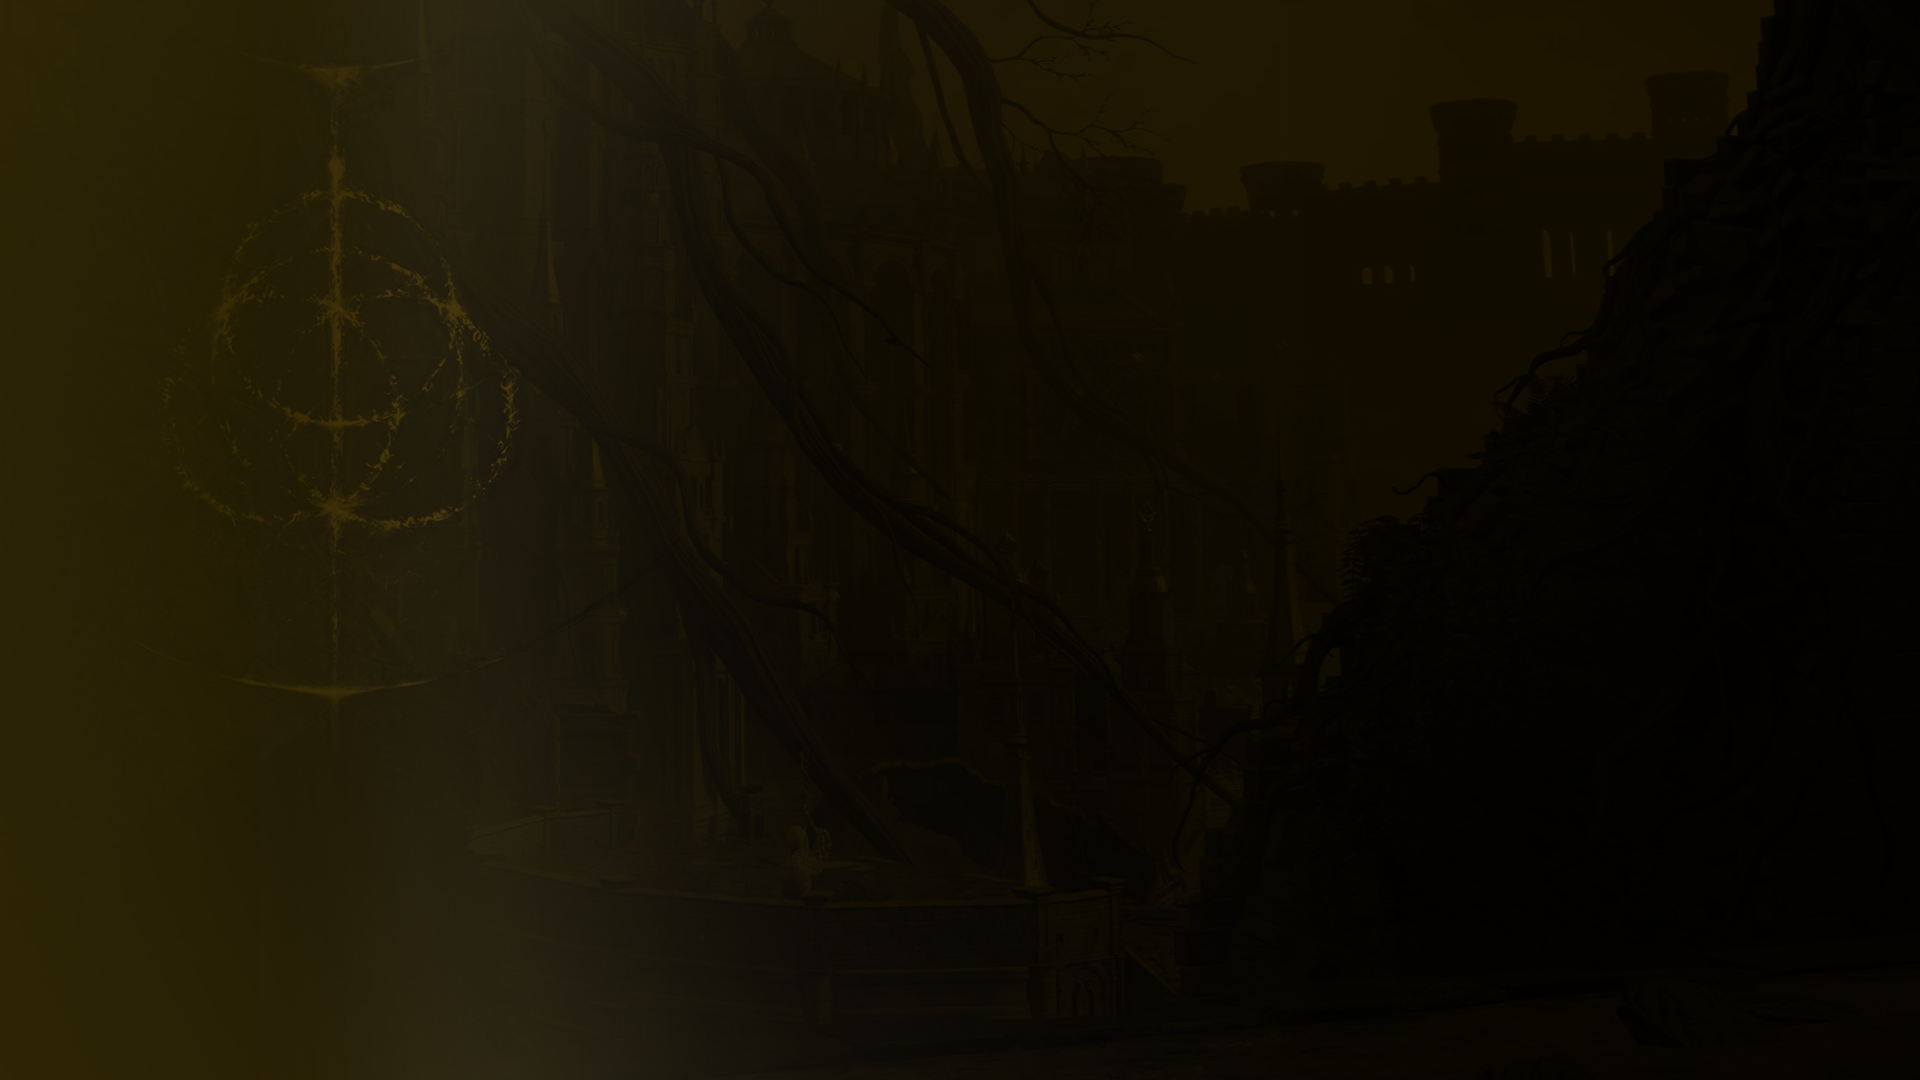
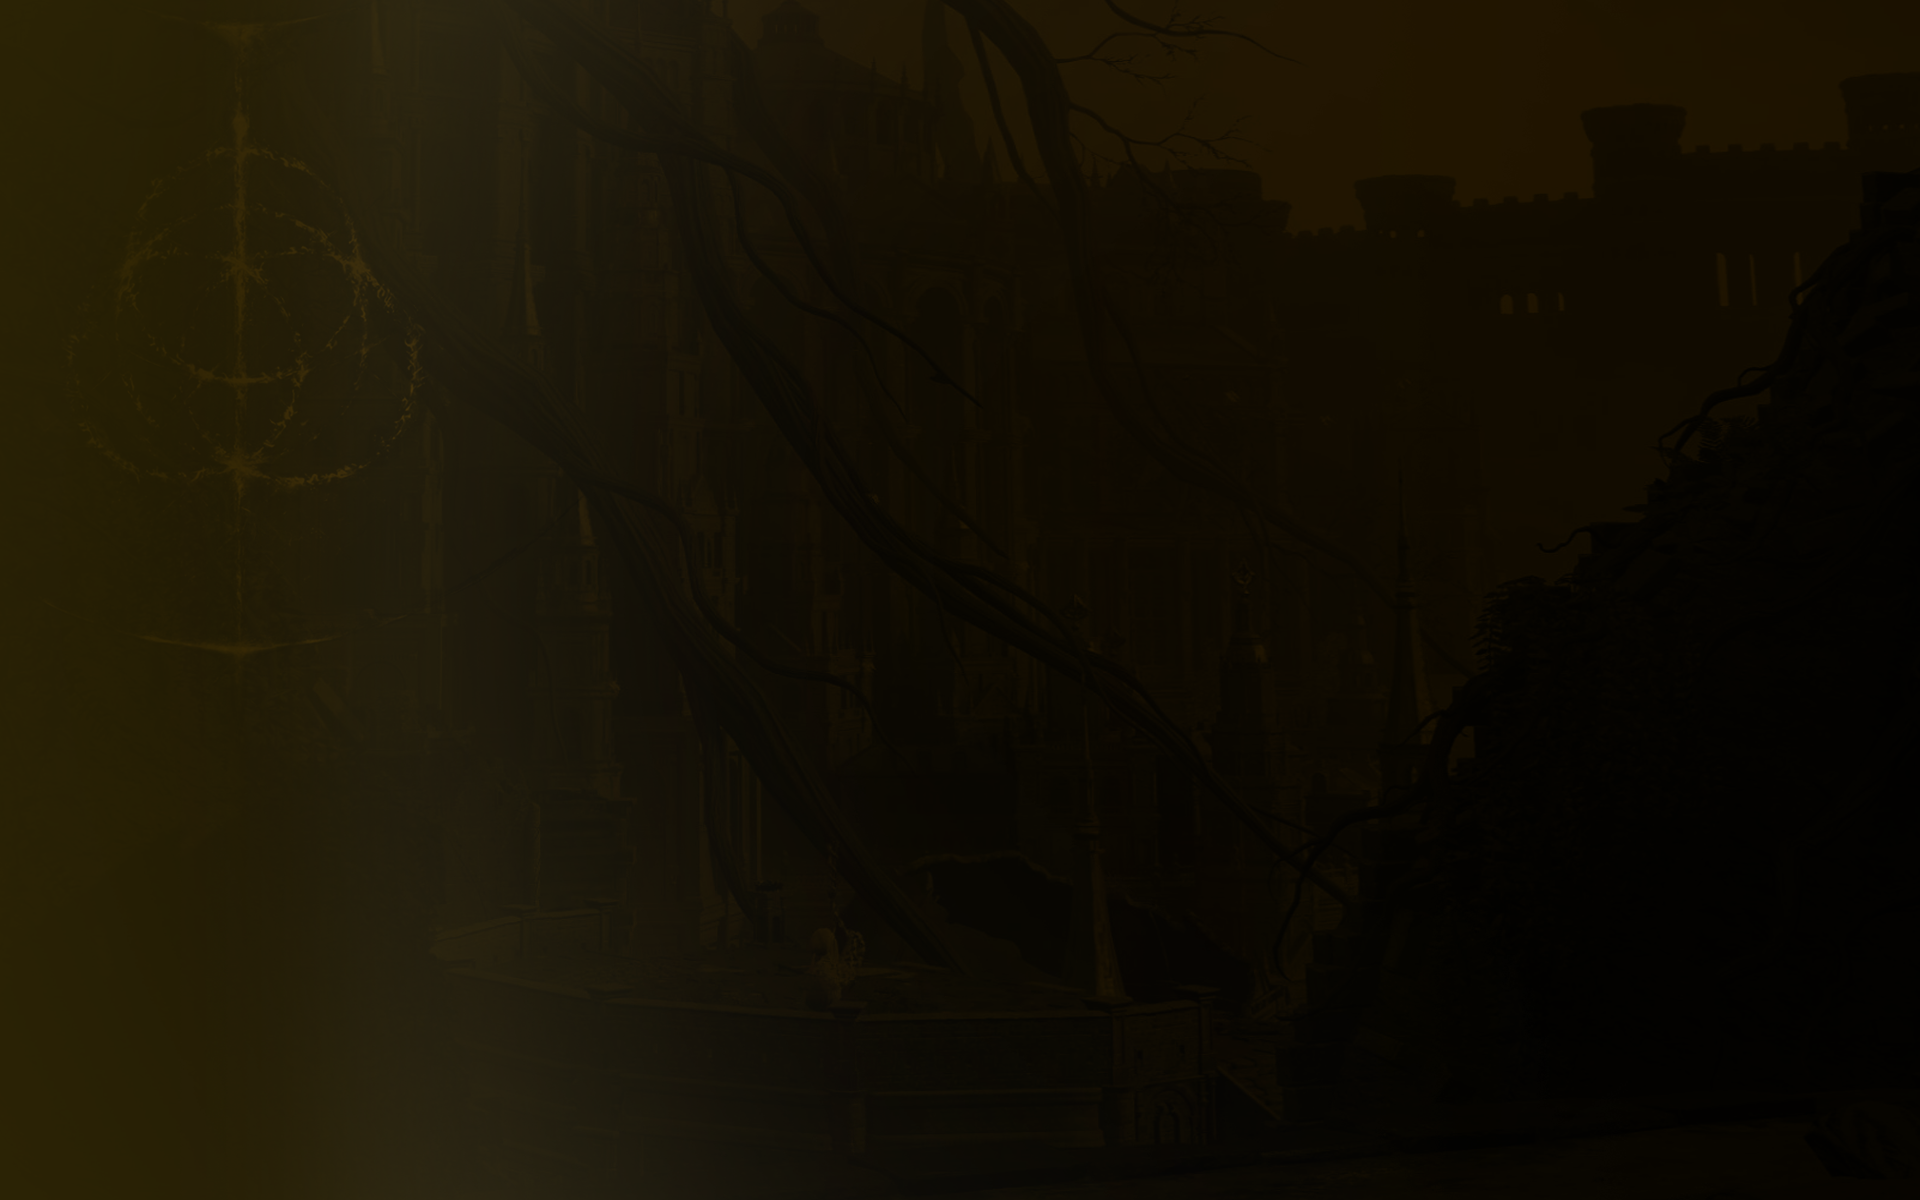
progress made on sign up form and setting up firebase auth

Changed region(s): [[0.9062, 0.0, 1.0, 0.1222], [0.2188, 0.275, 0.25, 0.3056]]

diff --git a/components/BuildCreatorPanels/AmmoPanel.tsx b/components/BuildCreatorPanels/AmmoPanel.tsx
@@ -11,15 +11,14 @@ function AmmoPanel() {
 
     const [arrowsIndices, setArrowsIndices] = useState([-1, -1]);
     const [boltsIndices, setBoltsIndices] = useState([-1, -1]);
-    const [currArrowIndex, setArrowCurrIndex] = useState(0);
-    const [currBoltIndex, setBoltCurrIndex] = useState(0);
+    const [currIndex, setCurrIndex] = useState(0);
 
     const handleArrowChange = (newIndex: number) => {
-        handleDropdownChange(arrowsIndices, currArrowIndex, newIndex, arrows, getSelectedItems, setArrowsIndices, setSelectedArrows);
+        handleDropdownChange(arrowsIndices, currIndex, newIndex, arrows, getSelectedItems, setArrowsIndices, setSelectedArrows);
     }
 
     const handleBoltChange = (newIndex: number) => {
-        handleDropdownChange(boltsIndices, currBoltIndex, newIndex, bolts, getSelectedItems, setBoltsIndices, setSelectedBolts);
+        handleDropdownChange(boltsIndices, currIndex, newIndex, bolts, getSelectedItems, setBoltsIndices, setSelectedBolts);
     }
 
     return (
@@ -31,7 +30,7 @@ function AmmoPanel() {
                     arrowsIndices.map((arrowIndex, i) => {
                         const ammoAP = calculateAmmoAttackPower(arrows[arrowIndex]);
                         return (
-                        <div className="selector" onClick={() => {setArrowCurrIndex(i)}} key={i}>
+                        <div className="selector" onClick={() => {setCurrIndex(i)}} key={i}>
                         <label>Arrow {i+1}</label>
                         <DropDown items={arrows} index={arrowIndex} isNullable={true} hasImages={true} incompatibilities={arrowsIndices} onChange={handleArrowChange} searchEnabled={true}/>
                         <div className="info">
@@ -45,7 +44,7 @@ function AmmoPanel() {
                     boltsIndices.map((arrowIndex, i) => {
                         const ammoAP = calculateAmmoAttackPower(bolts[arrowIndex]);
                         return (
-                        <div className="selector" onClick={() => {setBoltCurrIndex(i)}} key={i}>
+                        <div className="selector" onClick={() => {setCurrIndex(i)}} key={i}>
                         <label>Bolt {i+1}</label>
                         <DropDown items={bolts} index={arrowIndex} isNullable={true} hasImages={true} incompatibilities={boltsIndices} onChange={handleBoltChange} searchEnabled={true}/>
                         <div className="info">

diff --git a/app/global.css b/app/global.css
@@ -166,12 +166,13 @@ input[type="checkbox"]:disabled {
   display: flex;
   align-items: center;
   margin-left: 30px;
+  margin-right: 10px;
   padding: 0 10px 10px 10px;
   font-size: 15px;
 }
 
 .navbar-btn:last-child {
-  margin-left: 0px;
+  margin-left: 10px;
 }
 
 .selected-page {
@@ -197,6 +198,66 @@ input[type="checkbox"]:disabled {
   justify-content: center;
 }
 
+/*styling for sign up page*/
+.signup {
+  display: flex;
+  justify-content: center;
+  align-items: center;
+  height: 70vh;
+}
+
+.signup-form {
+  display:flex;
+  flex-direction: column;
+  row-gap: 22px;
+  width: 400px;
+}
+
+.form-group {
+  display:flex;
+  flex-direction: column;
+  row-gap: 7px;
+}
+
+.form-group label {
+  font-size: 16px;
+  color: white
+}
+
+.form-group input[type="text"],
+.form-group input[type="password"] {
+  width: 100%;
+  padding: 5px;
+  background-color: #121212;
+  font-size: 25px;
+  border: none;
+  border-bottom: var(--grey-border);
+}
+
+.form-group input[type="text"]:focus,
+.form-group input[type="password"]:focus {
+  outline: none;
+  border-bottom: 2px var(--gold) solid;
+}
+
+.password-container {
+  display: flex;
+  align-items: center;
+  justify-content:space-between;
+}
+
+.form-group i {
+  padding: 10px;
+  background-color: #121212;
+  height: 39px;
+  border-bottom: var(--grey-border);
+}
+
+.form-group i:hover {
+  background-color: grey;
+  cursor: pointer;
+}
+
 /*styling for build creator page*/
 .build-creator {
   display: flex;
@@ -204,10 +265,10 @@ input[type="checkbox"]:disabled {
   align-items: center;
   width: 100%;
   height: calc(35vh + 1750px);
-  background-image: linear-gradient(to top, #1c1c1c00, #1c1c1cFF), 
+  background-image: linear-gradient(0deg, rgba(22,18,7,1) 0%, rgba(31,26,8,1) 40%, rgba(0,0,0,0) 85%, rgba(28,28,28,1) 100%), 
   url('./../public/builder-bg.png');
-  background-size: auto;
-  background-size: cover;
+  background-position: top left;
+  background-size: 100%;
   min-width: 1500px;
 }
 
@@ -665,7 +726,6 @@ td {
 }
 
 .button-container button:hover {
-  text-align: center;
   background-color: gray;
   cursor: pointer;
 }
@@ -696,7 +756,7 @@ td {
   border-radius: 50%;
   display: inline-block;
   box-sizing: border-box;
-  animation: rotation 1s linear infinite;
+  animation: rotation 1s cubic-bezier(0.1, 0.1, 0.1, 0.7) infinite;
   }
 
   @keyframes rotation {

diff --git a/app/signup/page.tsx b/app/signup/page.tsx
@@ -1,0 +1,37 @@
+'use client'
+import { useState } from "react";
+
+function SignUp() {
+  const [emailInput, setEmailInput] = useState("");
+  const [passwordInput, setPasswordInput] = useState("");
+  const [passwordVisible, setPasswordVisible] = useState(false);
+
+  return (
+    <>
+    <link rel="stylesheet" href="https://cdnjs.cloudflare.com/ajax/libs/font-awesome/4.7.0/css/font-awesome.min.css"></link>
+    
+    <div className="signup">
+      <form className="signup-form" autoComplete="off">
+        <h1>Sign Up</h1>
+        <div className="form-group">
+          <label>Email</label>
+          <input type="text" required/>
+        </div>
+        <div className="form-group">
+          <label>Username</label>
+          <input type="text" required/>
+        </div>
+        <div className="form-group">
+          <label>Password</label>
+          <div className="password-container">
+            <input type={passwordVisible ? "text" : "password"} minLength={8} required />
+            <i className={"fa" + (passwordVisible ? " fa-eye-slash" : " fa-eye")} aria-hidden="true" onClick={() => setPasswordVisible(!passwordVisible)}/>
+          </div>
+        </div>        
+      </form>
+    </div>
+    </>
+  )
+}
+
+export default SignUp

diff --git a/context/BuildCreatorContext.tsx b/context/BuildCreatorContext.tsx
@@ -1,4 +1,5 @@
 import { classes } from "@/public/data";
+import { getTotalStats } from "@/utils/BuildCreatorUtils";
 import { Ammo, Armour, Ash, CharacterStats, GreatRune, Spell, Talisman, Weapon } from "@/utils/types";
 import { PropsWithChildren, createContext, useState } from "react";
 
@@ -6,7 +7,7 @@ export const BuildCreatorContext = createContext<any>(undefined);
 
 export const BuildCreatorContextProvider = ({ children }: PropsWithChildren<{}>) => {
     const [selectedClass, setSelectedClass] = useState(classes[0]);
-    const [selectedArmours, setSelectedArmours] = useState<Armour|null[]>(new Array(4).fill(null));
+    const [selectedArmours, setSelectedArmours] = useState<Armour[]>(new Array(4).fill(undefined));
     const [selectedTalismans, setSelectedTalismans] = useState<Talisman[]>([]);
     const [selectedWeapons, setSelectedWeapons] = useState<Weapon|null[]>(new Array(6).fill(null));
     const [selectedAshes, setSelectedAshes] = useState<Ash|null[]>(new Array(6).fill(null));
@@ -30,7 +31,7 @@ export const BuildCreatorContextProvider = ({ children }: PropsWithChildren<{}>)
     });
 
     const runeEffect = runeActivated ? selectedRune : undefined;
-
+    
     const value = {
         selectedClass,
         setSelectedClass,

diff --git a/context/AuthContext.tsx b/context/AuthContext.tsx
@@ -1,0 +1,32 @@
+import { PropsWithChildren, createContext, useEffect, useState } from "react"
+import { auth } from "@/services/firebase";
+import firebase from "firebase/compat/app";
+
+const AuthContext = createContext<any>(undefined)
+
+export const AuthProvider = ({ children }: PropsWithChildren<{}>) => {
+    const [currentUser, setCurrentUser] = useState<firebase.User | null>(null);
+
+    function signup(email: string, password: string) {
+        return auth.createUserWithEmailAndPassword(email, password);
+    }
+
+    useEffect(() => {
+        const unsubscribe = auth.onAuthStateChanged(user => {
+            setCurrentUser(user);
+        });
+
+        return unsubscribe;
+    },[]);
+
+    const value = {
+        currentUser,
+        setCurrentUser
+    }
+
+    return (
+        <AuthContext.Provider value={value}>
+            {children}
+        </AuthContext.Provider>
+    )
+}

diff --git a/app/build-creator/page.tsx b/app/build-creator/page.tsx
@@ -2,15 +2,11 @@
 import { useEffect, useState } from 'react'
 import { ArmourPanel, CharacterPanel, TalismansPanel, Loading, WeaponsPanel, DefencesPanel, StatsPanel, AttackPowerPanel, GreatRunesPanel, AmmoPanel, SpellsPanel } from '@/components'
 import { BuildCreatorContextProvider } from '@/context/BuildCreatorContext';
+import useLoading from '@/hooks/useLoading';
 
 function BuildCreator() {
-    const [loaded, setLoaded] = useState(false);
-
-    useEffect(() => {
-        setTimeout(() => setLoaded(true), 750);
-    }, [loaded])
+    const { loaded } = useLoading();
     
-
     if (loaded) {
         return (
             <div className="build-creator">

diff --git a/services/firebase.ts b/services/firebase.ts
@@ -1,0 +1,15 @@
+import firebase from "firebase/compat/app";
+
+const app = firebase.initializeApp({
+    apiKey: process.env.FIREBASE_API_KEY,
+    authDomain: process.env.FIREBASE_AUTH_DOMAIN,
+    databaseURL: process.env.FIREBASE_DATABASE_URL,
+    projectId: process.env.FIREBASE_PROJECT_ID,
+    storageBucket: process.env.FIREBASE_STORAGE_BUCKET,
+    messagingSenderId: process.env.FIREBASE_MESSAGING_SENDER_ID,
+    appId: process.env.FIREBASE_APP_ID,
+    measurementId: process.env.FIREBASE_MEASUREMENT_ID
+});
+
+export const auth = app.auth()
+export default app

diff --git a/components/NavBar.tsx b/components/NavBar.tsx
@@ -15,7 +15,7 @@ function NavBar() {
           <Link href="/build-creator" className={"navbar-btn" + (pathname == "/build-creator" ? " selected-page" : "")}>Build Creator</Link>
           <Link href="" className="navbar-btn">Login</Link>
           <div style={{borderLeft: "1px solid gray", height:"25px"}}></div>
-          <Link href="" className="navbar-btn">Sign Up</Link>
+          <Link href="/signup" className={"navbar-btn"+ (pathname == "/signup" ? " selected-page" : "")}>Sign Up</Link>
         </div>
     </div>
 

diff --git a/hooks/useLoading.ts b/hooks/useLoading.ts
@@ -1,0 +1,11 @@
+import { useEffect, useState } from "react";
+
+export default function useLoading() {
+    const [loaded, setLoaded] = useState(false);
+
+    useEffect(() => {
+        setLoaded(true);
+    }, [loaded])
+
+    return { loaded, setLoaded }
+}
